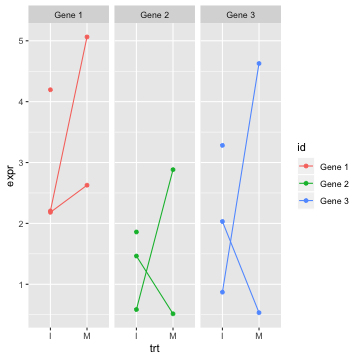
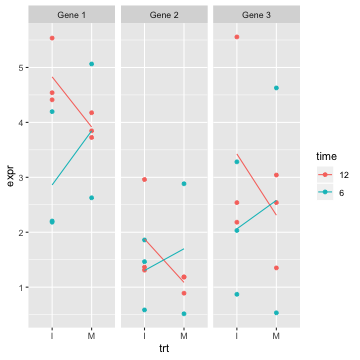
fixed interaction plot in tidyr slides

diff --git a/2.1-tidyr/index.html b/2.1-tidyr/index.html
@@ -500,7 +500,7 @@ geom_boxplot()
 ---
 # Ratings by week
 
-How do ratigs change over the weeks?
+How do ratings change over the weeks?
 Again, we use the long form of the data and plot:
 
 
@@ -548,11 +548,13 @@ head(gtidy)
 
 
 ```r
+gmean &lt;- gtidy %&gt;% 
+  group_by(id, trt, time) %&gt;% 
+  summarise(expr = mean(expr))
 gtidy %&gt;% 
-  filter(time==6 ) %&gt;%
-  ggplot(aes(x = trt, y = expr, colour=id)) +
+  ggplot(aes(x = trt, y = expr, colour=time)) +
   geom_point() +
-  geom_line(aes(group = interaction(id, rep))) +
+  geom_line(data = gmean, aes(group = time)) +
   facet_wrap(~id)
 ```
 
@@ -572,6 +574,8 @@ rating, potato:painty)
 ff_lm &lt;- lm(rating~type+treatment+time+subject, 
 data=ff_long)
 ```
+
+---
 
 `summary`, `str`, `resid`, `fitted`, `coef`, ... allow us to extract different parts of a model for a linear model. Other model functions work differently ... major headaches!
 
@@ -645,11 +649,10 @@ One value for each:
 
 ```r
 glance(ff_lm)
-# A tibble: 1 x 11
-  r.squared adj.r.squared sigma statistic p.value    df logLik    AIC
-*     &lt;dbl&gt;         &lt;dbl&gt; &lt;dbl&gt;     &lt;dbl&gt;   &lt;dbl&gt; &lt;int&gt;  &lt;dbl&gt;  &lt;dbl&gt;
-1     0.400         0.395  2.90      88.1       0    27 -8607. 17270.
-# ... with 3 more variables: BIC &lt;dbl&gt;, deviance &lt;dbl&gt;, df.residual &lt;int&gt;
+  r.squared adj.r.squared   sigma statistic p.value df    logLik      AIC
+1 0.3995198     0.3949865 2.89966  88.13113       0 27 -8606.787 17269.57
+       BIC deviance df.residual
+1 17441.83 28957.24        3444
 ```
 
 ---

diff --git a/2.3-adv-graphics/index.html b/2.3-adv-graphics/index.html
@@ -174,7 +174,7 @@ For `\(x=4, K=17, m=20\)`
 
 ```
      x simulated       binom
-[1,] 4    0.0173 0.008800605
+[1,] 4    0.0206 0.008800605
 ```
 
 ---
